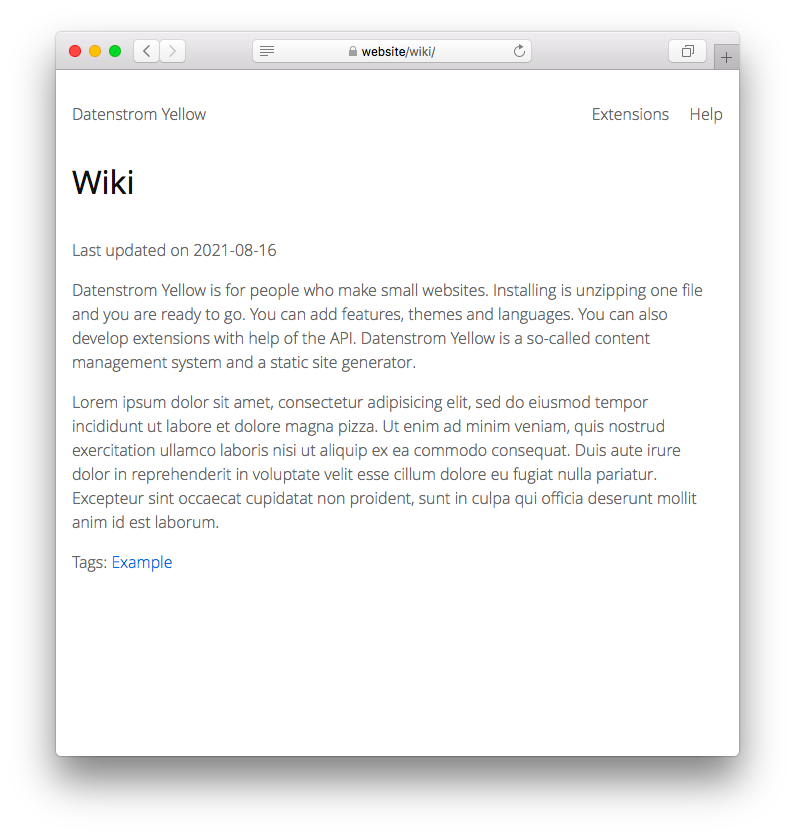
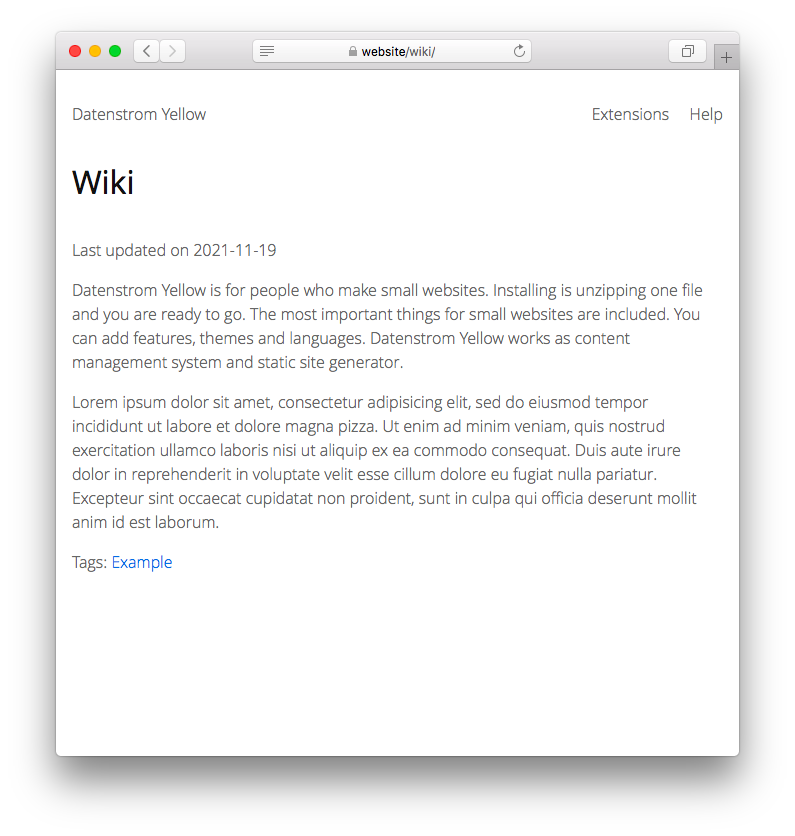
Updated documentation and screenshots

Changed region(s): [[0.0906, 0.3732, 0.8755, 0.4665], [0.3019, 0.2799, 0.3623, 0.311]]

diff --git a/source/blog/README-de.md b/source/blog/README-de.md
@@ -57,36 +57,51 @@ Inhaltsdatei mit Blogseite und Seitenumbruch:
     Layout: blog
     Tag: Beispiel, Kaffee
     ---
-    Fika ist ein schwedischer Brauch. Es ist eine Kaffeepause, bei der 
-    Menschen bei einer Tasse Kaffee oder Tee zusammenkommen. [--more--]
-    
-    Das kann mit Arbeitskollegen sein oder du lädst Freunde dazu ein. Fika 
-    ist ein so bedeutender Teil vom schwedischen Alltag, dass es sowohl als 
-    Verb als auch als Nomen verwendet wird. Wie oft machst du Fika?
+    Fika ist ein schwedischer Brauch. Es ist eine Kaffeepause, bei der Menschen  
+    bei einer Tasse Kaffee oder Tee zusammenkommen. Das kann mit Arbeitskollegen  
+    sein oder du lädst Freunde dazu ein. Fika ist ein so bedeutender Teil vom 
+    schwedischen Alltag, dass es sowohl als Verb als auch als Nomen verwendet  
+    wird. Wie oft machst du Fika? [--more--]
 
-Links zum Blog anzeigen:
+    [youtube SUpY1BT9Xf4]
 
-    [Siehe alle Seiten](/blog/)
-    [Siehe alle Seiten von Datenstrom](/blog/author:datenstrom/)
-    [Siehe Beispiele](/blog/tag:beispiel/)
+Inhaltsdatei mit Bloginformationen:
 
-Neuste Blogseiten anzeigen:
+    ---
+    Title: Archiv
+    ---
+    ## Jahre
+
+    [blogyears /blog/ 0]
+
+    ## Tags
+
+    [blogtags /blog/ 0]
+
+Liste mit neusten Seiten anzeigen:
 
     [blogchanges /blog/ 0]
     [blogchanges /blog/ 3]
     [blogchanges /blog/ 10]
 
-Liste mit Tags anzeigen:
+Liste mit Seiten anzeigen:
 
-    [blogtags /blog/ 0]
-    [blogtags /blog/ 3]
-    [blogtags /blog/ 10]
+    [blogpages /blog/ 0]
+    [blogpages /blog/ 3]
+    [blogpages /blog/ 10]
 
-Liste mit Jahren anzeigen:
+Liste mit Seiten anzeigen, von einem bestimmten Autor oder Tag:
 
-    [blogyears /blog/ 0]
-    [blogyears /blog/ 3]
-    [blogyears /blog/ 10]
+    [blogpages /blog/ 10 Datenstrom]
+    [blogpages /blog/ 10 - Kaffee]
+    [blogpages /blog/ 10 - Beispiel]
+
+Links zum Blog anzeigen:
+
+    [Siehe alle Seiten](/blog/)
+    [Siehe Seiten von Datenstrom](/blog/author:datenstrom/)
+    [Siehe Seiten über Kaffee](/blog/tag:kaffee/)
+    [Siehe Seiten mit Beispielen](/blog/tag:beispiel/)
 
 Anderen Ort festlegen, URL mit Unterverzeichnis für jedes Jahr:
 

diff --git a/source/blog/README-sv.md b/source/blog/README-sv.md
@@ -58,35 +58,50 @@ Innehållsfil med bloggsida och sidbrytning:
     Tag: Exempel, Kaffe
     ---
     Fika är en svensk sed. Det är en social kaffepaus där människor
-    samlas för att ta en kopp kaffe eller te tillsammans. [--more--]
-    
-    Du kan ha fika med kollegor på jobbet. Du kan bjuda in dina vänner
-    till fika. Fika är en så viktig del av vardagen i Sverige att det är
-    både ett verb och ett substantiv. Hur ofta fikar du? 
+    samlas för att ta en kopp kaffe eller te tillsammans. Du kan ha fika 
+    med kollegor på jobbet. Du kan bjuda in dina vänner till fika. Fika 
+    är en så viktig del av vardagen i Sverige att det är både ett verb 
+    och ett substantiv. Hur ofta fikar du? [--more--]
 
-Visa länkar till bloggen:
+    [youtube SUpY1BT9Xf4]
 
-    [Se alla sidor](/blog/)
-    [Se alla sidor av Datenstrom](/blog/author:datenstrom/)
-    [Se exempel](/blog/tag:exempel/)
+Innehållsfil med blogginformation:
 
-Visa senaste bloggsidor:
+    ---
+    Title: Arkiv
+    ---
+    ## År
+
+    [blogyears /blog/ 0]
+
+    ## Taggar
+
+    [blogtags /blog/ 0]
+
+Visa lista med sensate sidor:
 
     [blogchanges /blog/ 0]
     [blogchanges /blog/ 3]
     [blogchanges /blog/ 10]
 
-Visa lista med taggar:
+Visa lista med sidor:
 
-    [blogtags /blog/ 0]
-    [blogtags /blog/ 3]
-    [blogtags /blog/ 10]
+    [blogpages /blog/ 0]
+    [blogpages /blog/ 3]
+    [blogpages /blog/ 10]
 
-Visa lista med år:
+Visa lista med sidor, av en specifik författare eller tagg:
 
-    [blogyears /blog/ 0]
-    [blogyears /blog/ 3]
-    [blogyears /blog/ 10]
+    [blogpages /blog/ 10 Datenstrom]]
+    [blogpages /blog/ 10 - kaffe]
+    [blogpages /blog/ 10 - exempel]
+
+Visa länkar till bloggen:
+
+    [Se alla sidor](/blog/)
+    [Se sidor av Datenstrom](/blog/author:datenstrom/)
+    [Se sidor om kaffe](/blog/tag:kaffe/)
+    [Se sidor med exempel](/blog/tag:exempel/)
 
 Konfigurera en annan plats, URL med undermapp för varje år:
 

diff --git a/source/blog/README.md b/source/blog/README.md
@@ -58,35 +58,50 @@ Content file with blog page and page break:
     Tag: Example, Coffee
     ---
     Fika is a Swedish custom. It's a social coffee break where people 
-    gather to have a cup of coffee or tea together. [--more--]
-    
-    You can have fika with colleagues at work. You can invite your friends 
-    to fika. Fika is such an important part of life in Sweden that it is 
-    both a verb and a noun. How often do you fika?
+    gather to have a cup of coffee or tea together. You can have fika with 
+    colleagues at work. You can invite your friends to fika. Fika is such 
+    an important part of life in Sweden that it is both a verb and a noun. 
+    How often do you fika? [--more--]
 
-Showing links to blog:
+    [youtube SUpY1BT9Xf4]
 
-    [See all pages](/blog/)
-    [See all pages by Datenstrom](/blog/author:datenstrom/)
-    [See examples](/blog/tag:example/)
+Content file with blog information:
 
-Showing latest blog pages:
+    ---
+    Title: Archive
+    ---
+    ## Years
+
+    [blogyears /blog/ 0]
+
+    ## Tags
+
+    [blogtags /blog/ 0]
+
+Showing list of latest pages:
 
     [blogchanges /blog/ 0]
     [blogchanges /blog/ 3]
     [blogchanges /blog/ 10]
 
-Showing list of tags:
+Showing list of pages:
 
-    [blogtags /blog/ 0]
-    [blogtags /blog/ 3]
-    [blogtags /blog/ 10]
+    [blogpages /blog/ 0]
+    [blogpages /blog/ 3]
+    [blogpages /blog/ 10]
 
-Showing list of years:
+Showing list of pages, by a specific author or tag:
 
-    [blogyears /blog/ 0]
-    [blogyears /blog/ 3]
-    [blogyears /blog/ 10]
+    [blogpages /blog/ 10 Datenstrom]
+    [blogpages /blog/ 10 - coffee]
+    [blogpages /blog/ 10 - example]
+
+Showing links to blog:
+
+    [See all pages](/blog/)
+    [See pages by Datenstrom](/blog/author:datenstrom/)
+    [See pages about coffee](/blog/tag:coffee/)
+    [See pages with examples](/blog/tag:example/)
 
 Configuring different location, URL with subfolder for each year:
 

diff --git a/source/wiki/README-de.md b/source/wiki/README-de.md
@@ -62,23 +62,24 @@ Inhaltsdatei mit Wikiseite:
        Mokka, Türkischen Kaffee und vieles mehr. Finde deinen Lieblingsgeschmack.
     3. Genieße.
 
-Links zum Wiki anzeigen:
+Inhaltsdatei mit Wikiinformationen:
 
-    [Siehe alle Seiten](/wiki/special:pages/)
-    [Siehe letzte Änderungen](/wiki/special:changes/)
-    [Siehe Beispiele](/wiki/tag:beispiel/)
+    ---
+    Title: Übersicht
+    ---
+    ## Seiten
 
-Neuste Wikiseiten anzeigen:
+    [wikipages /wiki/ 0]
+
+    ## Tags
+
+    [wikitags /wiki/ 0]
+
+Liste der letzten Änderungen anzeigen:
 
     [wikichanges /wiki/ 0]
     [wikichanges /wiki/ 3]
     [wikichanges /wiki/ 10]
-
-Liste mit Tags anzeigen:
-
-    [wikitags /wiki/ 0]
-    [wikitags /wiki/ 3]
-    [wikitags /wiki/ 10]
 
 Liste mit Seiten anzeigen:
 
@@ -91,6 +92,13 @@ Liste mit Seiten anzeigen, von einem bestimmten Autor oder Tag:
     [wikipages /wiki/ 10 Datenstrom]
     [wikipages /wiki/ 10 - Kaffee]
     [wikipages /wiki/ 10 - Beispiel]
+
+Links zum Wiki anzeigen:
+
+    [Siehe alle Seiten](/wiki/special:pages/)
+    [Siehe letzte Änderungen](/wiki/special:changes/)
+    [Siehe Seiten von Datenstrom](/wiki/author:datenstrom/)
+    [Siehe Seiten mit Beispielen](/wiki/tag:beispiel/)
 
 Anderen Ort festlegen, URL mit Unterverzeichnis zur Kategorisierung:
 

diff --git a/source/wiki/README-sv.md b/source/wiki/README-sv.md
@@ -62,23 +62,24 @@ Innehållsfil med wikisida:
         fler. Hitta din favoritsmak,
      3. Njut. 
 
-Visa länkar till wikin:
+Innehållsfil med wikiinformation:
 
-    [Se alla sidor](/wiki/special:pages/)
-    [Se senaste ändringarna](/wiki/special:changes/)
-    [Se exempel](/wiki/tag:exempel/)
+    ---
+    Title: Översikt
+    ---
+    ## Sidor
 
-Visa senaste wikisidor:
+    [wikipages /wiki/ 0]
+
+    ## Taggar
+
+    [wikitags /wiki/ 0]
+
+Visa lista över senaste ändringarna: 
 
     [wikichanges /wiki/ 0]
     [wikichanges /wiki/ 3]
     [wikichanges /wiki/ 10]
-
-Visa lista med taggar:
-
-    [wikitags /wiki/ 0]
-    [wikitags /wiki/ 3]
-    [wikitags /wiki/ 10]
 
 Visa lista med sidor:
 
@@ -91,6 +92,13 @@ Visa lista med sidor, av en specifik författare eller tagg:
     [wikipages /wiki/ 10 Datenstrom]]
     [wikipages /wiki/ 10 - kaffe]
     [wikipages /wiki/ 10 - exempel]
+
+Visa länkar till wikin:
+
+    [Se alla sidor](/wiki/special:pages/)
+    [Se senaste ändringarna](/wiki/special:changes/)
+    [Se sidor av Datenstrom](/wiki/author:datenstrom/)
+    [Se sidor med exempel](/wiki/tag:exempel/)
 
 Konfigurera en annan plats, URL med undermapp för kategorisering: 
 

diff --git a/source/wiki/README.md b/source/wiki/README.md
@@ -62,23 +62,24 @@ Content file with wiki page:
        out what's your favorite.
     3. Enjoy.
 
-Showing links to wiki:
+Content file with wiki information:
 
-    [See all pages](/wiki/special:pages/)
-    [See recent changes](/wiki/special:changes/)
-    [See examples](/wiki/tag:example/)
+    ---
+    Title: Overview
+    ---
+    ## Pages
 
-Showing latest wiki pages:
+    [wikipages /wiki/ 0]
+
+    ## Tags
+
+    [wikitags /wiki/ 0]
+
+Showing list of recent changes:
 
     [wikichanges /wiki/ 0]
     [wikichanges /wiki/ 3]
     [wikichanges /wiki/ 10]
-
-Showing list of tags:
-
-    [wikitags /wiki/ 0]
-    [wikitags /wiki/ 3]
-    [wikitags /wiki/ 10]
 
 Showing list of pages:
 
@@ -91,6 +92,13 @@ Showing list of pages, by a specific author or tag:
     [wikipages /wiki/ 10 Datenstrom]
     [wikipages /wiki/ 10 - coffee]
     [wikipages /wiki/ 10 - example]
+
+Showing links to wiki:
+
+    [See all pages](/wiki/special:pages/)
+    [See recent changes](/wiki/special:changes/)
+    [See pages by Datenstrom](/wiki/author:datenstrom/)
+    [See pages with examples](/wiki/tag:example/)
 
 Configuring different location, URL with subfolder for categorisation:
 
